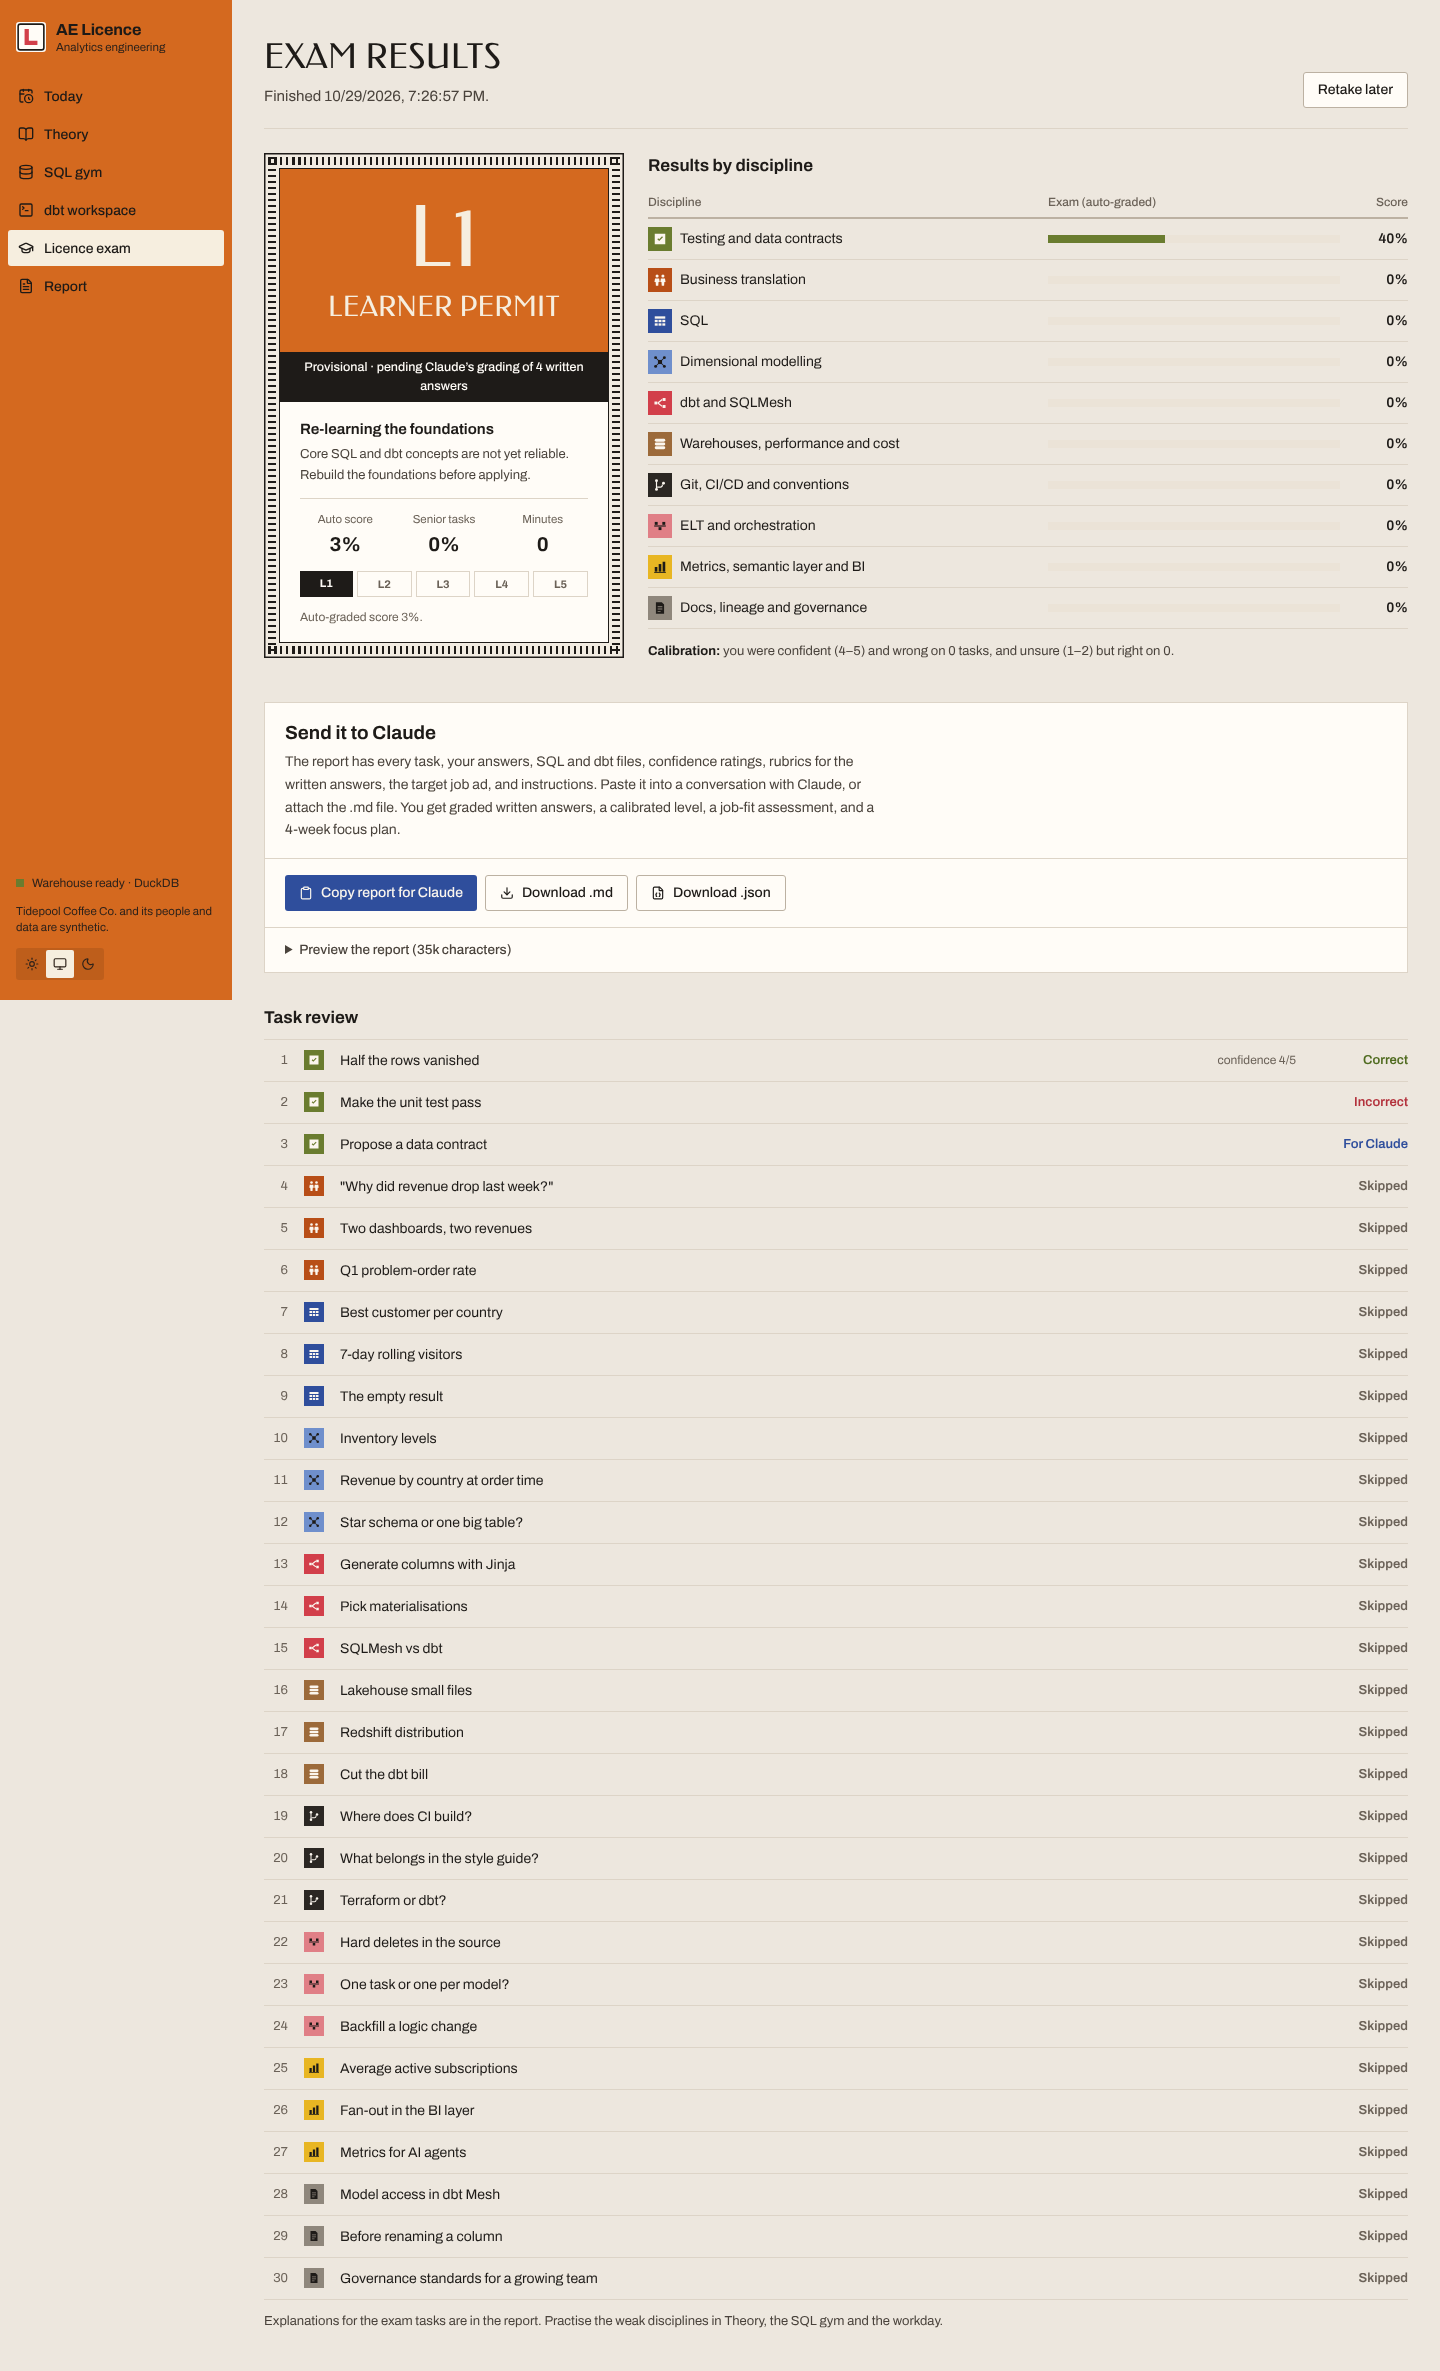
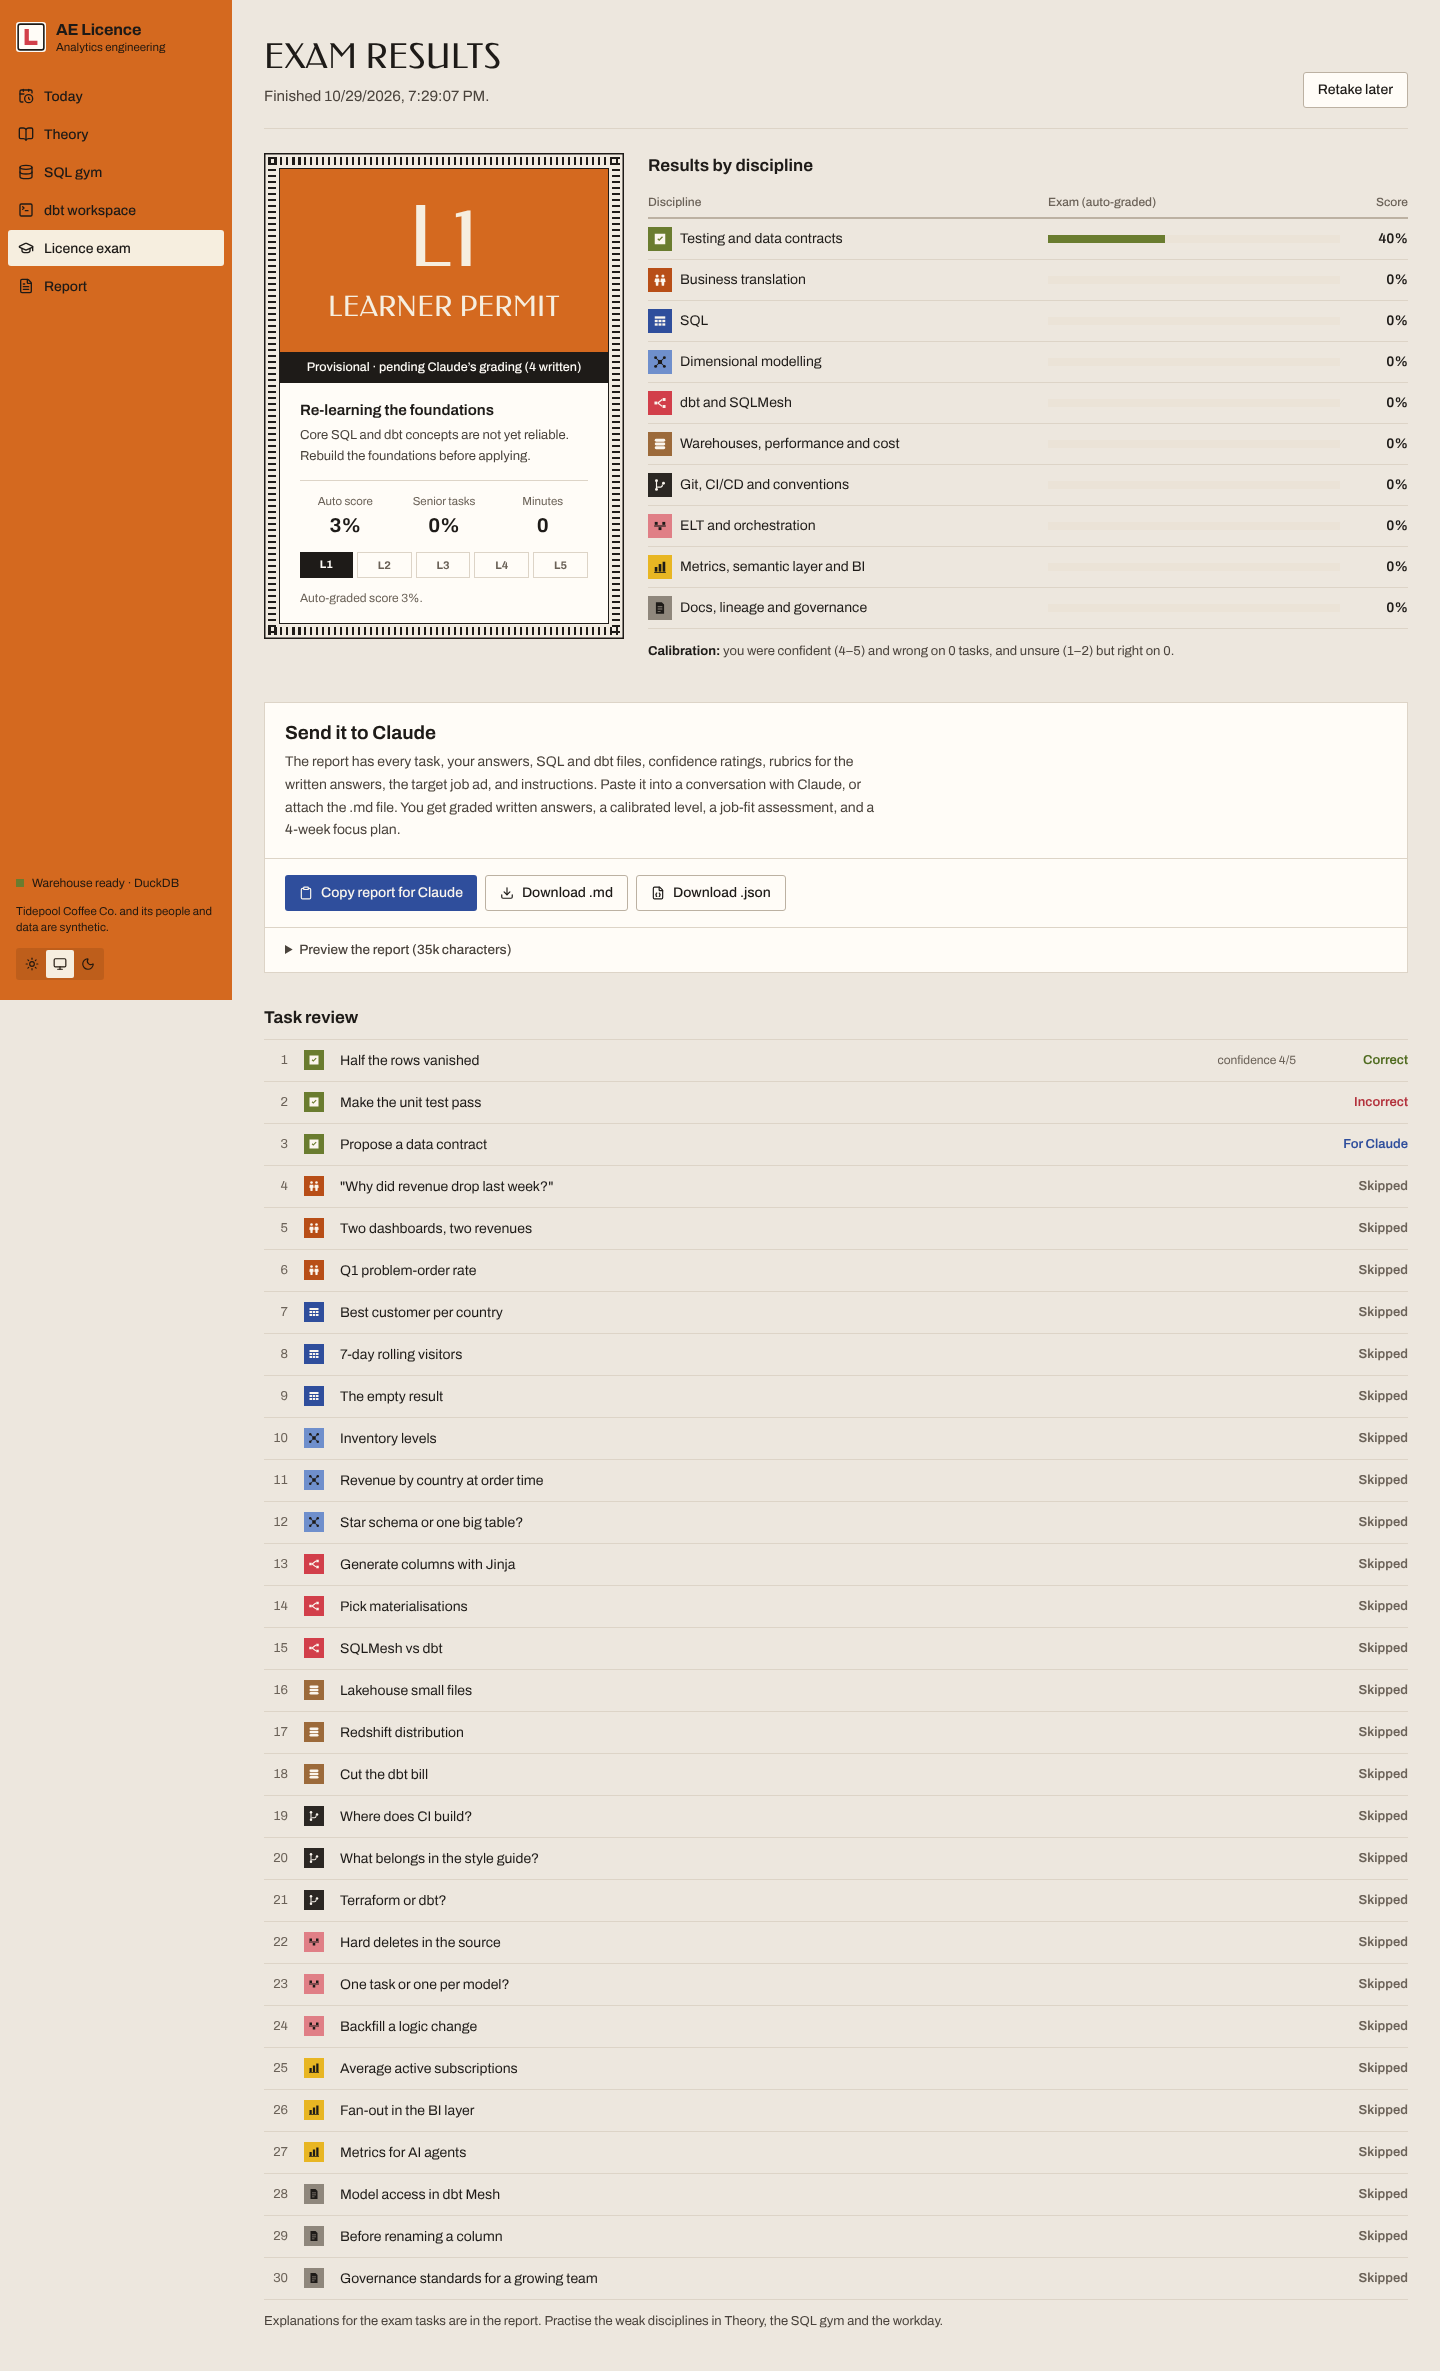
Poster lettering: balanced title, contrast-safe captions, mobile fit
Claude-Session: https://claude.ai/code/session_01L58MotJ2gxhCyHN3MALQZg

Changed region(s): [[0.1875, 0.1561, 0.4375, 0.2809]]

diff --git a/src/components/Poster.tsx b/src/components/Poster.tsx
@@ -1,7 +1,7 @@
 /** The 1912 poster lettering lockup: a large first line, a swash-flanked second line, a meta line. */
 export function Swash({ flip }: { flip?: boolean }) {
   return (
-    <svg viewBox="0 0 40 20" width="34" height="17" aria-hidden className={flip ? 'shrink-0 -scale-x-100' : 'shrink-0'} fill="none" stroke="currentColor" strokeWidth="2.2" strokeLinecap="round">
+    <svg viewBox="0 0 40 20" width="34" height="17" aria-hidden className={flip ? 'hidden shrink-0 -scale-x-100 sm:block' : 'hidden shrink-0 sm:block'} fill="none" stroke="currentColor" strokeWidth="2.2" strokeLinecap="round">
       <path d="M38 10c-6 0-8-7-14-7-5 0-7 4-4 7 3 3 7 0 5-2" />
       <path d="M38 10c-8 0-10 7-17 7-4 0-6-2-6-4" />
     </svg>
@@ -11,11 +11,11 @@ export function Swash({ flip }: { flip?: boolean }) {
 export function PosterLettering({ id, title, subtitle, meta }: { id?: string; title: string; subtitle: string; meta: string }) {
   return (
     <div className="text-center text-[var(--poster-ink)]">
-      <h1 id={id} className="font-display text-[42px] leading-[0.95] uppercase sm:text-[60px] lg:text-[76px]">
+      <h1 id={id} className="font-display mx-auto max-w-[16ch] text-[42px] leading-[0.95] text-balance uppercase sm:text-[60px] lg:text-[76px]">
         {title}
       </h1>
-      <p className="font-display mt-4 flex items-center justify-center gap-3 text-[26px] leading-tight uppercase sm:text-[36px]">
-        <Swash /> {subtitle} <Swash flip />
+      <p className="font-display mt-4 flex items-center justify-center gap-2 text-[26px] leading-tight uppercase sm:gap-3 sm:text-[36px]">
+        <Swash /> <span className="text-balance">{subtitle}</span> <Swash flip />
       </p>
       <p className="font-display mt-1.5 text-[24px] uppercase tnum sm:text-[28px]">{meta}</p>
     </div>

diff --git a/src/pages/Results.tsx b/src/pages/Results.tsx
@@ -54,7 +54,7 @@ function ExamReportView({ exam }: { exam: ExamSession }) {
             <p className="font-display text-[84px] leading-none">{result.level.code}</p>
             <p className="font-display mt-2 text-[28px] leading-tight uppercase">{result.level.plate}</p>
           </div>
-          <p className="bg-[var(--ink)] px-5 py-1.5 text-center text-[12.5px] font-medium text-[var(--surface)]">Provisional · pending Claude’s grading of {result.openPending} written answers</p>
+          <p className="bg-[var(--ink)] px-5 py-1.5 text-center text-[12.5px] font-medium text-[var(--surface)]">Provisional · pending Claude’s grading ({result.openPending} written)</p>
           <div className="bg-surface px-5 py-4">
             <p className="text-[15px] font-[650] text-ink">{result.level.role}</p>
             <p className="mt-1 text-[13px] leading-relaxed text-ink-2">{result.level.description}</p>

diff --git a/src/pages/Home.tsx b/src/pages/Home.tsx
@@ -31,7 +31,7 @@ export function Home() {
             <ProgrammeStrip current={next?.id} />
           </div>
           <div className="mt-8">
-            <PosterLettering id="day-title" title="The analytics engineer’s day" subtitle="Tidepool Coffee Co. 2026" meta="1 July · 08:30 — 17:30" />
+            <PosterLettering id="day-title" title="The analytics engineer’s day" subtitle="Tidepool Coffee Co." meta="1 July 2026 · 08:30 — 17:30" />
           </div>
           <div className="mt-7 flex flex-wrap items-center justify-center gap-x-5 gap-y-3">
             {next ? (

diff --git a/src/index.css b/src/index.css
@@ -23,7 +23,7 @@
   --ink-3: #6b6258;
   --rail: #d4691f;
   --rail-ink: #1d1a17;
-  --rail-ink-2: #2e221a;
+  --rail-ink-2: #22180f;
   --rail-hover: #df7d36;
   --rail-active: #f6eedf;
   --rail-active-ink: #1d1a17;
